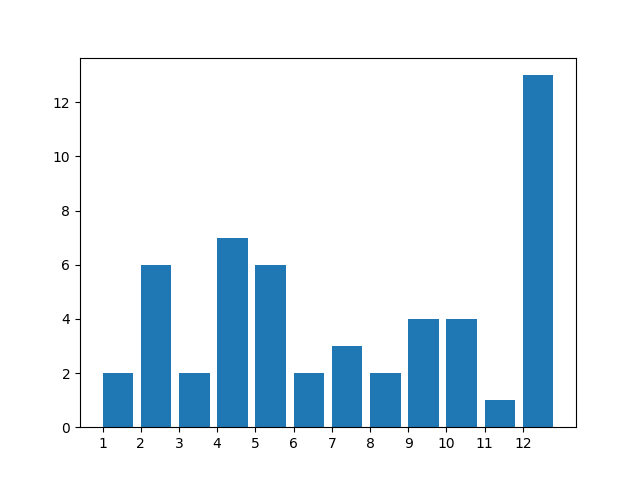
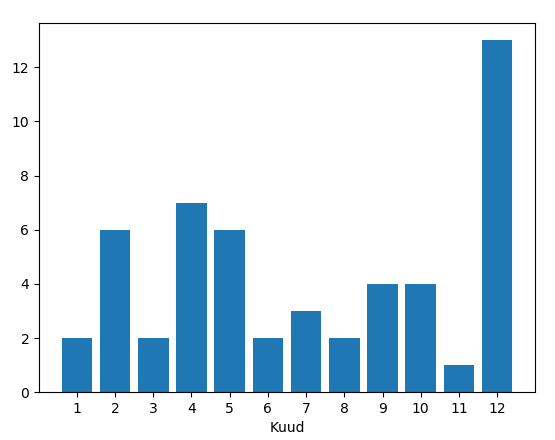
mpl bar

diff --git a/source/matplotlib.rst b/source/matplotlib.rst
@@ -211,58 +211,34 @@ Tulpdiagrammi koostamiseks on meetod :py:meth:`bar<matplotlib.axes.Axes.bar>`, m
     
 .. image:: images/mpl_tulp1.png
 
-Nagu näha, määrab meetodi ``bar`` esimene argument, kuhu satuvad tulpade vasakud servad. Paremad servad satuvad tulba laiuse võrra paremale. Kui tahame tulpasid paigutada nii, et tulba kuu märgi kohale satuks tulba keskkoht, siis tuleb esimest argumenti natuke nihutada:
-
-.. sourcecode:: py3
-    :emphasize-lines: 9-11
-
-    import matplotlib.pyplot as plt
-    
-    kuud             = [ 1,  2,  3,  4,  5,  6,  7,  8,  9, 10, 11, 12]
-    ümbrikke_kulunud = [ 2,  6,  2,  7,  6,  2,  3,  2,  4,  4,  1, 13]
-    
-    fig = plt.figure()
-    ax = fig.add_subplot(1,1,1)
-    
-    # moodustame kuu numbrite põhjal uue listi, kus elemendid on 0.4 võrra väiksemad
-    tulpade_positsioonid = [kuu - 0.4 for kuu in kuud]  
-    ax.bar(tulpade_positsioonid, ümbrikke_kulunud, 0.8)
-    
-    ax.set_xlabel("Kuud")      
-    ax.set_xticks([1,2,3,4,5,6,7,8,9,10,11,12])
-    
-    plt.show()
-
-TODO: seleta list comprehensionit
 
 Mitme näitaja tulpdiagramm
 --------------------------
 Kui me tahame tulpadena kõrvuti näha ümbrike ja kirjaklambrite kulusid, siis  tuleb lihtsalt meetodit ``bar`` välja kutsuda kaks korda. Seejuures aga tuleb sättida eri näitajate tulbad nii, et nad üksteist varjutama ei hakkaks. Samuti tuleb teha tulbad kitsamaks. Lisaks anname ``bar``-ile ``label`` argumendi, mille põhjal :py:meth:`legend()<matplotlib.axes.Axes.legend>` teeb joonisele legendi:
 
 .. sourcecode:: py3
-    :emphasize-lines: 5,14-15,19
+    :emphasize-lines: 5,10-12,16
 
     import matplotlib.pyplot as plt
-    
+
     kuud                    = [ 1,  2,  3,  4,  5,  6,  7,  8,  9, 10, 11, 12]
     ümbrikke_kulunud        = [ 2,  6,  2,  7,  6,  2,  3,  2,  4,  4,  1, 13]
     kirjaklambreid_kulunud  = [ 5,  2,  1,  3,  3,  0,  0,  0,  1,  2,  1,  3]
-    
+
     fig = plt.figure()
     ax = fig.add_subplot(1,1,1)
-    
-    # moodustame kuu numbrite põhjal uue listi, kus elemendid on 0.4 võrra väiksemad
-    ümbriku_tulpade_positsioonid = [kuu - 0.4 for kuu in kuud]
-    ax.bar(ümbriku_tulpade_positsioonid, ümbrikke_kulunud, 0.4, label="Ümbrikke")
-    
-    # kirjaklambri tulpade positsioonideks kõlbavad kuu numbrid
-    ax.bar(kuud, kirjaklambreid_kulunud, 0.4, label="Kirjaklambreid")
-    
+
+    # Selleks, et tulbad ei satuks üksteise peale, nihutame neid pisut
+    ax.bar([kuu - 0.2 for kuu in kuud], ümbrikke_kulunud, 0.4, label="Ümbrikke")
+    ax.bar([kuu + 0.2 for kuu in kuud], kirjaklambreid_kulunud, 0.4, label="Kirjaklambreid")
+
     ax.set_xlabel("Kuud")      
     ax.set_xticks([1,2,3,4,5,6,7,8,9,10,11,12])
     ax.legend()
-    
+
     plt.show()
+
+Tulpade nihutamiseks kasutatud konstruktsiooni (``[kuu - 0.2 for kuu in kuud]``) nimetatakse `listikomprehensiooniks <https://www.python-course.eu/list_comprehension.php>`_. 
 
 Veel võimalusi
 --------------

diff --git a/source/index.rst b/source/index.rst
@@ -35,6 +35,7 @@ Uuendused
 
 Viimased uuendused:
 
+* 2017-12-05: Peatükis "Matplotlib" muudetud tulpdiagrammide kood teegi uusimatele versioonidele vastavaks.
 * 2017-11-29: Peatüki "Rekursioon" algusse lisati jaotus "Prelüüd"
 * 2017-11-29: Peatükis "Matplotlib" soovitatakse nüüd ``fig.show()`` asemel kasutada ``plt.show()``
 * 2017-10-04: 4. peatüki lisalugemises sai parandatud esimest tkinteri näidet
